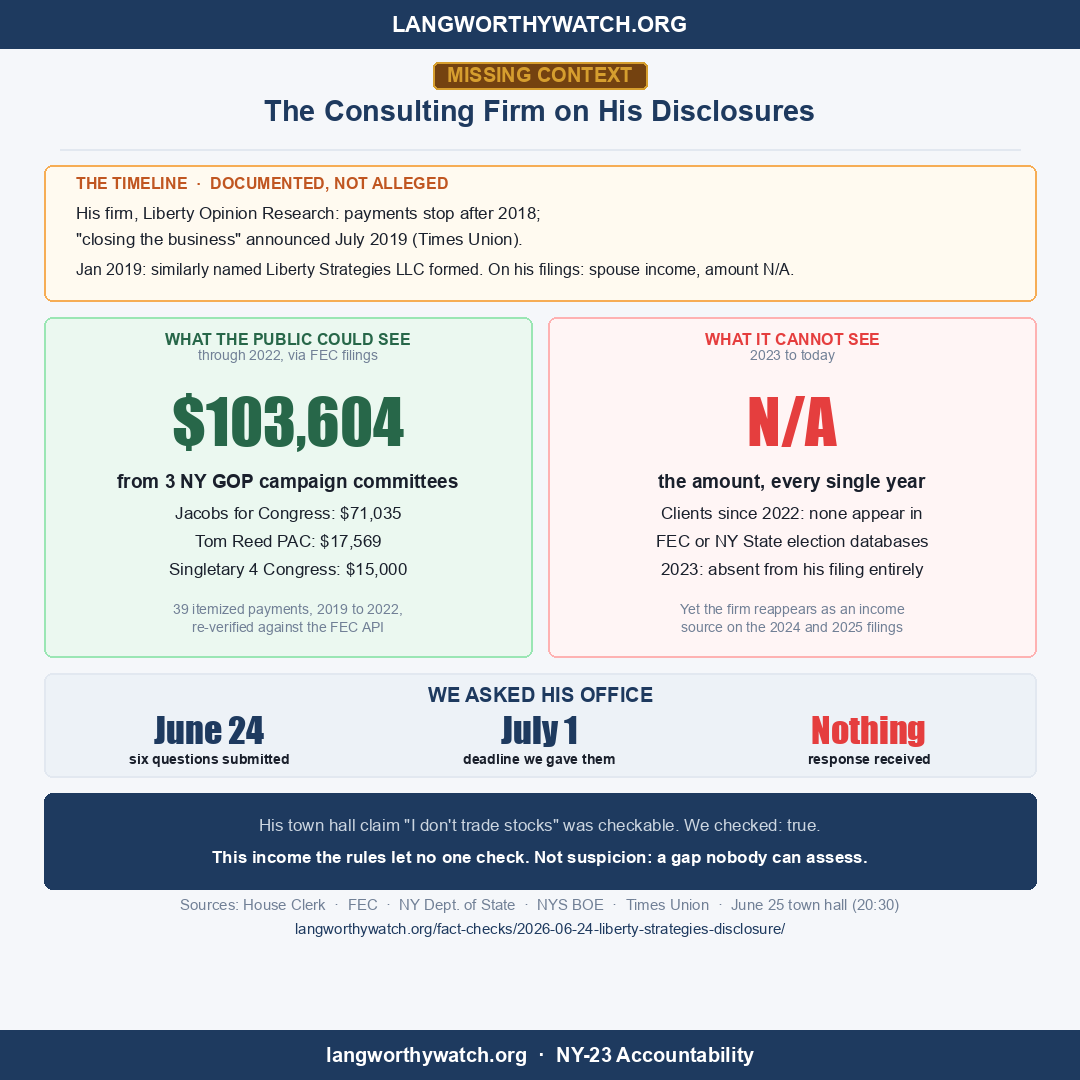
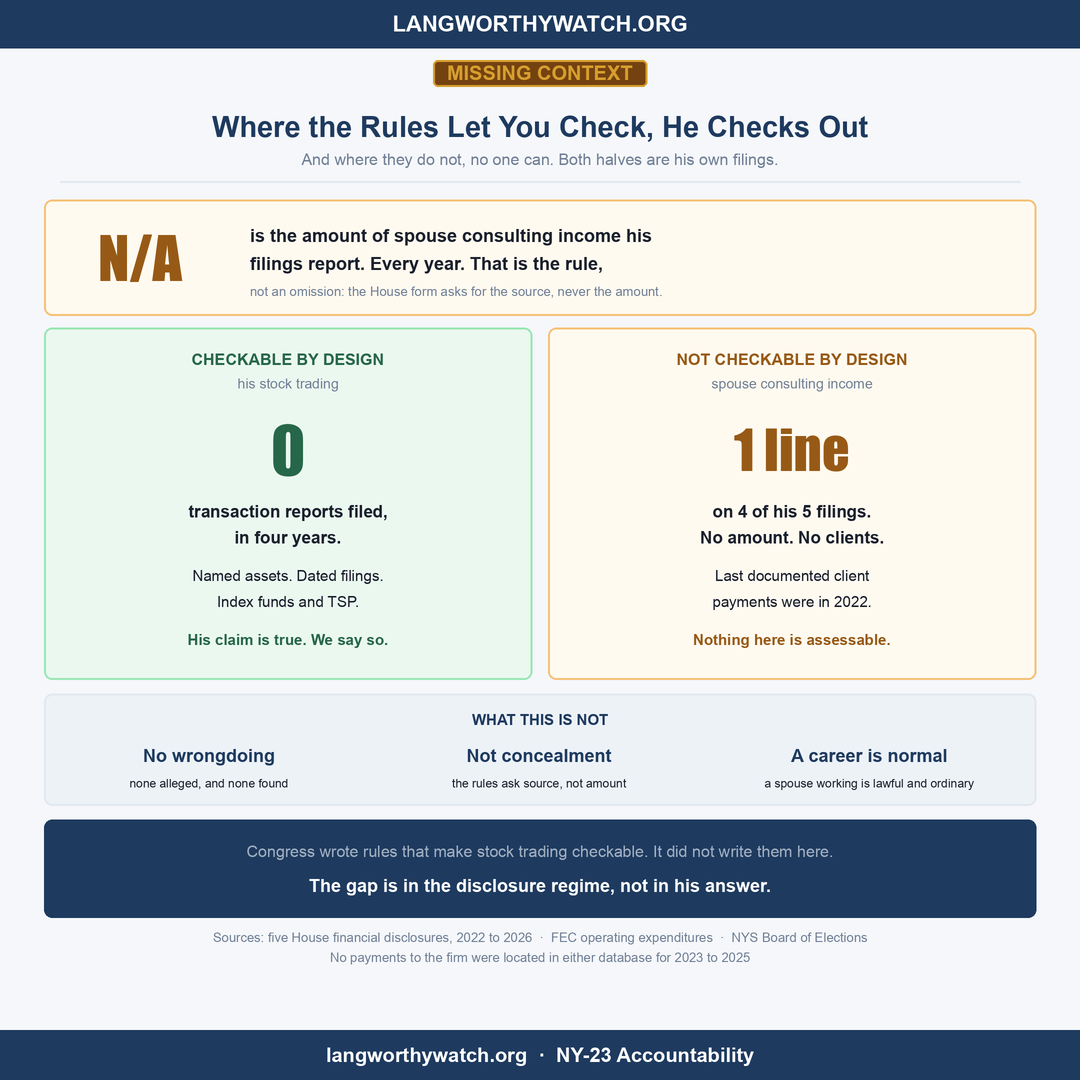
feat(social): Liberty Strategies card and caption
Card/caption pair for the published Liberty Strategies disclosure entry.
Badge MISSING CONTEXT, matching the entry.

Built on the entry's actual thesis rather than the money angle: where the
disclosure rules permit verification his record verifies cleanly, and
where they do not, nobody can form a view. That is a story about the
disclosure regime, not about his spouse, and it is what the entry says.

Hero is "N/A" - the literal value his filings report for the amount of
spouse consulting income, every year. Left panel (green): zero
transaction reports in four years, his stock-trading claim is true and we
say so. Right panel (amber): one line on 4 of 5 filings, no amount, no
clients, last documented client payments in 2022.

COLOR IS A DELIBERATE DEPARTURE. The right panel is amber, NOT red. Red
signals an adversarial contrast in this house style, and the entry
alleges no wrongdoing. The gap is in the rules, not in his conduct.

Both card and caption carry the fairness explicitly: no wrongdoing
alleged or found, a spouse having a career is normal and lawful,
reporting source without amount is what the rules require, and private
clients would not appear in campaign-finance databases at all - an
ordinary explanation that can be neither ruled in nor out. Omitting that
last point would have made the null result read as insinuation.

Caption 1,958 chars, no em dashes, entry URL verified 200.

Changed region(s): [[0.0306, 0.0, 0.9778, 0.8861], [0.9472, 0.5806, 0.9778, 0.6111]]

diff --git a/social-media/create_liberty_strategies_card.py b/social-media/create_liberty_strategies_card.py
@@ -1,91 +1,87 @@
 #!/usr/bin/env python3
-"""Social card: Liberty Strategies disclosure gap, July 2 2026. MISSING CONTEXT.
-What the public can see vs cannot; office no-response strip. No em dashes."""
+"""Social card: what the disclosure rules make checkable, and what they do not.
 
-from PIL import Image, ImageDraw, ImageFont
+Anchored to content/fact-checks/2026-06-24-liberty-strategies-disclosure.md
+(published verdict: MISSING CONTEXT).
 
-WIDTH, HEIGHT = 1080, 1080
-FONT_DIR = "/System/Library/Fonts/Supplemental/"
-BG="#F5F7FA"; NAVY="#1E3A5F"; DARK="#1A202C"; GREEN="#276749"; RED="#E53E3E"
-ORANGE="#C05621"; GOLD="#D69E2E"; MUTED="#718096"; BORDER="#E2E8F0"; WHITE="#FFFFFF"
+DESIGN NOTE ON COLOR: the right-hand panel is deliberately NOT red. The entry
+makes no allegation of wrongdoing, and red in this house style signals an
+adversarial contrast. The gap here is in the disclosure regime, not in his
+conduct, so the panel is neutral amber. Green on the left is used because that
+side genuinely verifies in his favor.
+Light house style, 1080x1080, no em dashes (enforced by Card.save).
+"""
+import sys, os
+sys.path.insert(0, os.path.dirname(os.path.abspath(__file__)))
+from lib.card import (Card, NAVY, DARK, GREEN, BRONZE, MUTED, BORDER, WHITE, LIGHTGRAY)
 
-def font(n,s):
-    try: return ImageFont.truetype(f"{FONT_DIR}{n}", s)
-    except Exception: return ImageFont.load_default()
-f_brand=font("Arial Bold.ttf",22); f_tag=font("Arial Bold.ttf",20); f_topic=font("Arial Bold.ttf",29)
-f_label=font("Arial Bold.ttf",20); f_label_s=font("Arial Bold.ttf",16); f_big=font("Impact.ttf",62)
-f_stat=font("Impact.ttf",36); f_sub_b=font("Arial Bold.ttf",19); f_sub=font("Arial.ttf",17)
-f_small=font("Arial.ttf",16); f_xs=font("Arial.ttf",14); f_xs_b=font("Arial Bold.ttf",14)
-f_src=font("Arial.ttf",15); f_footer=font("Arial Bold.ttf",20)
+c = Card(scale=2)
+c.brand_bar()
 
-img=Image.new("RGB",(WIDTH,HEIGHT),BG); draw=ImageDraw.Draw(img)
-draw.rectangle([(0,0),(WIDTH,48)],fill=NAVY)
-draw.text((WIDTH//2,24),"LANGWORTHYWATCH.ORG",fill=WHITE,font=f_brand,anchor="mm")
-y=62
+y = c.badge(60, "MISSING CONTEXT")
+y = c.title(y, "Where the Rules Let You Check, He Checks Out", size=29)
+y = c.subtitle(y + 6, "And where they do not, no one can. Both halves are his own filings.", size=16)
+y = c.divider(y + 12)
 
-tag="MISSING CONTEXT"; tb=draw.textbbox((0,0),tag,font=f_tag); tw,th=tb[2]-tb[0]+28,tb[3]-tb[1]+12
-draw.rounded_rectangle([((WIDTH-tw)//2,y),((WIDTH+tw)//2,y+th)],radius=5,fill="#744210",outline=GOLD,width=2)
-draw.text((WIDTH//2,y+th//2),tag,fill=GOLD,font=f_tag,anchor="mm"); y+=th+22
-draw.text((WIDTH//2,y),"The Consulting Firm on His Disclosures",fill=NAVY,font=f_topic,anchor="mm"); y+=38
-draw.line([(60,y),(WIDTH-60,y)],fill=BORDER,width=2); y+=16
+# ---- hero ---------------------------------------------------------------
+hero_h = 116
+c.panel(44, y + 2, c.w - 44, y + 2 + hero_h, fill="#FFFAF0", outline="#F6C177")
+c.text(140, y + 2 + hero_h / 2, "N/A", size=58, impact=True, fill=BRONZE, anchor="mm")
+c.text(250, y + 38, "is the amount of spouse consulting income his", size=18, bold=True, fill=DARK, anchor="lm")
+c.text(250, y + 66, "filings report. Every year. That is the rule,", size=18, bold=True, fill=DARK, anchor="lm")
+c.text(250, y + 94, "not an omission: the House form asks for the source, never the amount.", size=13, fill=MUTED, anchor="lm")
+y = y + 2 + hero_h + 12
 
-claim_h=136
-draw.rounded_rectangle([(44,y),(WIDTH-44,y+claim_h)],radius=8,fill="#FFFAF0",outline="#F6AD55",width=2)
-draw.text((76,y+18),"THE TIMELINE  ·  DOCUMENTED, NOT ALLEGED",fill=ORANGE,font=f_label_s,anchor="lm")
-draw.text((76,y+48),"His firm, Liberty Opinion Research: payments stop after 2018;",fill=DARK,font=f_sub,anchor="lm")
-draw.text((76,y+74),"\"closing the business\" announced July 2019 (Times Union).",fill=DARK,font=f_sub,anchor="lm")
-draw.text((76,y+104),"Jan 2019: similarly named Liberty Strategies LLC formed. On his filings: spouse income, amount N/A.",fill=DARK,font=f_small,anchor="lm")
-y+=claim_h+16
+# ---- two columns --------------------------------------------------------
+col_w = (c.w - 44 * 2 - 16) // 2
+col_h = 352
+lx, rx = 44, 44 + col_w + 16
+top = y
 
-col_w=(WIDTH-44*2-16)//2; col_h=340; lx=44; rx=lx+col_w+16
-draw.rounded_rectangle([(lx,y),(lx+col_w,y+col_h)],radius=8,fill="#EBF8F0",outline="#9AE6B4",width=2)
-draw.text((lx+col_w//2,y+22),"WHAT THE PUBLIC COULD SEE",fill=GREEN,font=f_label_s,anchor="mm")
-draw.text((lx+col_w//2,y+38),"through 2022, via FEC filings",fill=MUTED,font=f_xs,anchor="mm")
-draw.text((lx+col_w//2,y+104),"$103,604",fill=GREEN,font=f_big,anchor="mm")
-draw.text((lx+col_w//2,y+164),"from 3 NY GOP campaign committees",fill=DARK,font=f_sub_b,anchor="mm")
-draw.text((lx+col_w//2,y+196),"Jacobs for Congress: $71,035",fill=DARK,font=f_sub,anchor="mm")
-draw.text((lx+col_w//2,y+224),"Tom Reed PAC: $17,569",fill=DARK,font=f_sub,anchor="mm")
-draw.text((lx+col_w//2,y+252),"Singletary 4 Congress: $15,000",fill=DARK,font=f_sub,anchor="mm")
-draw.text((lx+col_w//2,y+292),"39 itemized payments, 2019 to 2022,",fill=MUTED,font=f_xs,anchor="mm")
-draw.text((lx+col_w//2,y+310),"re-verified against the FEC API",fill=MUTED,font=f_xs,anchor="mm")
+c.panel(lx, top, lx + col_w, top + col_h, fill="#EBF8F0", outline="#9AE6B4")
+c.text(lx + col_w / 2, top + 32, "CHECKABLE BY DESIGN", size=16, bold=True, fill=GREEN, anchor="mm")
+c.text(lx + col_w / 2, top + 56, "his stock trading", size=14, fill=MUTED, anchor="mm")
+c.text(lx + col_w / 2, top + 122, "0", size=64, impact=True, fill=GREEN, anchor="mm")
+c.text(lx + col_w / 2, top + 184, "transaction reports filed,", size=17, bold=True, fill=DARK, anchor="mm")
+c.text(lx + col_w / 2, top + 210, "in four years.", size=17, bold=True, fill=DARK, anchor="mm")
+c.text(lx + col_w / 2, top + 248, "Named assets. Dated filings.", size=15, fill=DARK, anchor="mm")
+c.text(lx + col_w / 2, top + 274, "Index funds and TSP.", size=15, fill=DARK, anchor="mm")
+c.text(lx + col_w / 2, top + 312, "His claim is true. We say so.", size=15, bold=True, fill=GREEN, anchor="mm")
 
-draw.rounded_rectangle([(rx,y),(rx+col_w,y+col_h)],radius=8,fill="#FFF5F5",outline="#FEB2B2",width=2)
-draw.text((rx+col_w//2,y+22),"WHAT IT CANNOT SEE",fill=RED,font=f_label_s,anchor="mm")
-draw.text((rx+col_w//2,y+38),"2023 to today",fill=MUTED,font=f_xs,anchor="mm")
-draw.text((rx+col_w//2,y+104),"N/A",fill=RED,font=f_big,anchor="mm")
-draw.text((rx+col_w//2,y+164),"the amount, every single year",fill=DARK,font=f_sub_b,anchor="mm")
-draw.text((rx+col_w//2,y+196),"Clients since 2022: none appear in",fill=DARK,font=f_sub,anchor="mm")
-draw.text((rx+col_w//2,y+224),"FEC or NY State election databases",fill=DARK,font=f_sub,anchor="mm")
-draw.text((rx+col_w//2,y+252),"2023: absent from his filing entirely",fill=DARK,font=f_sub,anchor="mm")
-draw.text((rx+col_w//2,y+292),"Yet the firm reappears as an income",fill=MUTED,font=f_xs,anchor="mm")
-draw.text((rx+col_w//2,y+310),"source on the 2024 and 2025 filings",fill=MUTED,font=f_xs,anchor="mm")
-y+=col_h+16
+c.panel(rx, top, rx + col_w, top + col_h, fill="#FFFAF0", outline="#F6C177")
+c.text(rx + col_w / 2, top + 32, "NOT CHECKABLE BY DESIGN", size=16, bold=True, fill=BRONZE, anchor="mm")
+c.text(rx + col_w / 2, top + 56, "spouse consulting income", size=14, fill=MUTED, anchor="mm")
+c.text(rx + col_w / 2, top + 122, "1 line", size=54, impact=True, fill=BRONZE, anchor="mm")
+c.text(rx + col_w / 2, top + 184, "on 4 of his 5 filings.", size=17, bold=True, fill=DARK, anchor="mm")
+c.text(rx + col_w / 2, top + 210, "No amount. No clients.", size=17, bold=True, fill=DARK, anchor="mm")
+c.text(rx + col_w / 2, top + 248, "Last documented client", size=15, fill=DARK, anchor="mm")
+c.text(rx + col_w / 2, top + 274, "payments were in 2022.", size=15, fill=DARK, anchor="mm")
+c.text(rx + col_w / 2, top + 312, "Nothing here is assessable.", size=15, bold=True, fill=BRONZE, anchor="mm")
+y = top + col_h + 14
 
-strip_h=104
-draw.rounded_rectangle([(44,y),(WIDTH-44,y+strip_h)],radius=8,fill="#EDF2F7",outline=BORDER,width=2)
-draw.text((WIDTH//2,y+22),"WE ASKED HIS OFFICE",fill=NAVY,font=f_label,anchor="mm")
-third=(WIDTH-88)//3
-for i,(val,l1,c) in enumerate([
-    ("June 24","six questions submitted",NAVY),
-    ("July 1","deadline we gave them",NAVY),
-    ("Nothing","response received",RED),
-]):
-    cx=44+i*third+third//2
-    draw.text((cx,y+56),val,fill=c,font=f_stat,anchor="mm")
-    draw.text((cx,y+86),l1,fill=DARK,font=f_xs_b,anchor="mm")
-y+=strip_h+16
+# ---- fairness strip -----------------------------------------------------
+strip_h = 112
+c.panel(44, y, c.w - 44, y + strip_h, fill="#EDF2F7", outline=BORDER)
+c.text(c.w / 2, y + 26, "WHAT THIS IS NOT", size=15, bold=True, fill=NAVY, anchor="mm")
+third = (c.w - 88) // 3
+for i, (val, lab) in enumerate([("No wrongdoing", "none alleged, and none found"),
+                                ("Not concealment", "the rules ask source, not amount"),
+                                ("A career is normal", "a spouse working is lawful and ordinary")]):
+    cx = 44 + i * third + third / 2
+    c.text(cx, y + 62, val, size=18, bold=True, fill=NAVY, anchor="mm")
+    c.text(cx, y + 90, lab, size=12, fill=DARK, anchor="mm")
+y += strip_h + 14
 
-kick_h=96
-draw.rounded_rectangle([(44,y),(WIDTH-44,y+kick_h)],radius=8,fill=NAVY)
-draw.text((WIDTH//2,y+32),"His town hall claim \"I don't trade stocks\" was checkable. We checked: true.",fill="#CBD5E0",font=font("Arial.ttf",17),anchor="mm")
-draw.text((WIDTH//2,y+64),"This income the rules let no one check. Not suspicion: a gap nobody can assess.",fill=WHITE,font=font("Arial Bold.ttf",17),anchor="mm")
-y+=kick_h+16
-draw.text((WIDTH//2,y),"Sources: House Clerk  ·  FEC  ·  NY Dept. of State  ·  NYS BOE  ·  Times Union  ·  June 25 town hall (20:30)",
-          fill=MUTED,font=f_src,anchor="mm"); y+=24
-draw.text((WIDTH//2,y),"langworthywatch.org/fact-checks/2026-06-24-liberty-strategies-disclosure/",
-          fill=NAVY,font=f_src,anchor="mm")
-draw.rectangle([(0,HEIGHT-50),(WIDTH,HEIGHT)],fill=NAVY)
-draw.text((WIDTH//2,HEIGHT-25),"langworthywatch.org  ·  NY-23 Accountability",fill=WHITE,font=f_footer,anchor="mm")
+# ---- kicker -------------------------------------------------------------
+kick_h = 98
+c.panel(44, y, c.w - 44, y + kick_h, fill=NAVY, outline=None)
+c.text(c.w / 2, y + 32, "Congress wrote rules that make stock trading checkable. It did not write them here.",
+       size=16, fill=LIGHTGRAY, anchor="mm")
+c.text(c.w / 2, y + 66, "The gap is in the disclosure regime, not in his answer.", size=18, bold=True, fill=WHITE, anchor="mm")
+y += kick_h + 20
 
-out="/Users/zachbeaudoin/projects/Langworthywatch/langworthy-tracker/social-media/liberty_strategies_card.png"
-img.save(out,"PNG",dpi=(144,144)); print(f"Saved: {out}")
+c.text(c.w / 2, y, "Sources: five House financial disclosures, 2022 to 2026  ·  FEC operating expenditures  ·  NYS Board of Elections", size=13, fill=MUTED, anchor="mm")
+c.text(c.w / 2, y + 20, "No payments to the firm were located in either database for 2023 to 2025", size=13, fill=MUTED, anchor="mm")
+
+c.footer_bar()
+c.save(os.path.join(os.path.dirname(os.path.abspath(__file__)), "liberty_strategies_card.png"), to_desktop=True)

diff --git a/social-media/liberty_strategies_post.md b/social-media/liberty_strategies_post.md
@@ -1,21 +1,22 @@
-# Facebook post: Liberty Strategies, the two firms, and the checkable ledger (July 2, 2026)
-Companion to liberty_strategies_card.png and the fact-check.
+We checked two claims on Congressman Langworthy's financial disclosures. One is true. The other cannot be checked by anyone, including us.
 
----
+CLAIM: "I don't trade stocks, I've never traded stocks since I've been in public office."
+VERDICT: True
+→ Zero Periodic Transaction Reports in four years. The only transaction on his filings is a July 2024 rollover of an old employer 401(k) into his federal Thrift Savings Plan. His holdings are index funds and TSP. We checked because the rules let anyone check, and he checks out. We say so plainly.
 
-Before Congress, Nick Langworthy ran his own political consulting firm, Liberty Opinion Research. State election records show its payments stop after 2018, and in July 2019 a state GOP spokeswoman said he was closing it as he became state party chair. That same January, a similarly named firm, Liberty Strategies LLC, was formed in Tonawanda. His congressional disclosures list his wife as the person earning income from it.
+THE OTHER HALF: spouse consulting income from a firm called Liberty Strategies.
+VERDICT: Missing context
+→ It appears on 4 of his 5 House disclosures as a single line.
+→ The amount, every year: N/A. That is not concealment. The House form asks for the source of a spouse's earned income and never the amount.
+→ Through 2022 the firm's work was visible, because its clients were campaigns that file their own reports: $103,603.99 from three New York Republican House committees, 2019 to 2022.
+→ For 2023, 2024 and 2025 we located no payments to the firm in FEC records or the NYS Board of Elections database. The income line still appears on the 2024 and 2025 filings.
 
-To be clear: they are different firms with different principals, and nobody is alleging wrongdoing. What we are saying is narrower. The system does not let you assess it.
+What we are NOT saying, and it matters:
+→ No wrongdoing is alleged, and none was found.
+→ A spouse having a career, including running a consulting business, is normal and lawful.
+→ Private clients would not show up in campaign-finance databases at all. That is an ordinary explanation, and we can neither rule it in nor out.
+→ Reporting the source without the amount is exactly what the rules require.
 
-→ His federal filing must name the source of spouse income, but not the amount. Every year, the amount reads "N/A."
-→ Her state filing is the short form. It does not ask for a client list.
-→ The firm's documented clients paid it $103,604 through 2022 (FEC records: Jacobs for Congress $71,035, Tom Reed PAC $17,569, Singletary 4 Congress $15,000).
-→ Since 2022: not one payment to the firm appears in any public database, while it keeps appearing as household income on his filings.
+This is not about his family. It is that Congress wrote rules making stock trading checkable and did not write them here. Where verification is possible, his record verifies clean. Where it is not, nobody can form a view in either direction.
 
-Now compare stocks. At his June 25 tele-town hall, Langworthy said: "I don't trade stocks, I've never traded stocks since I've been in public office." We checked, because for stock trades the rules let anyone check: no transaction reports ever filed, one 401(k) rollover into the federal savings plan, index funds. His claim is true, and we say so.
-
-That is the whole point. Where the rules make the record checkable, he checks out. Where they don't, no one can check anything, including him. Someone is presumably paying Liberty Strategies today. The public has no way to know who.
-
-We sent his office six questions about the firm on June 24 and asked for a reply by July 1. We received nothing.
-
-Full fact-check: langworthywatch.org/fact-checks/2026-06-24-liberty-strategies-disclosure/
+https://langworthywatch.org/fact-checks/2026-06-24-liberty-strategies-disclosure/
